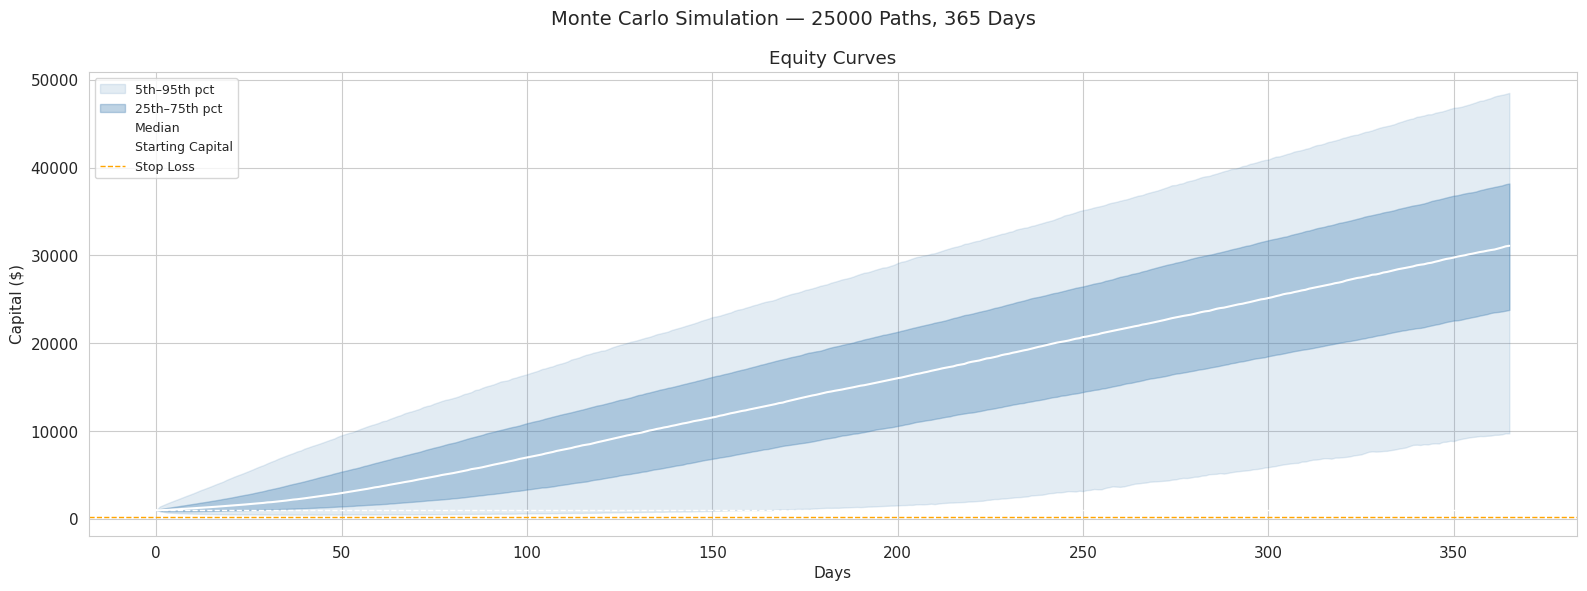
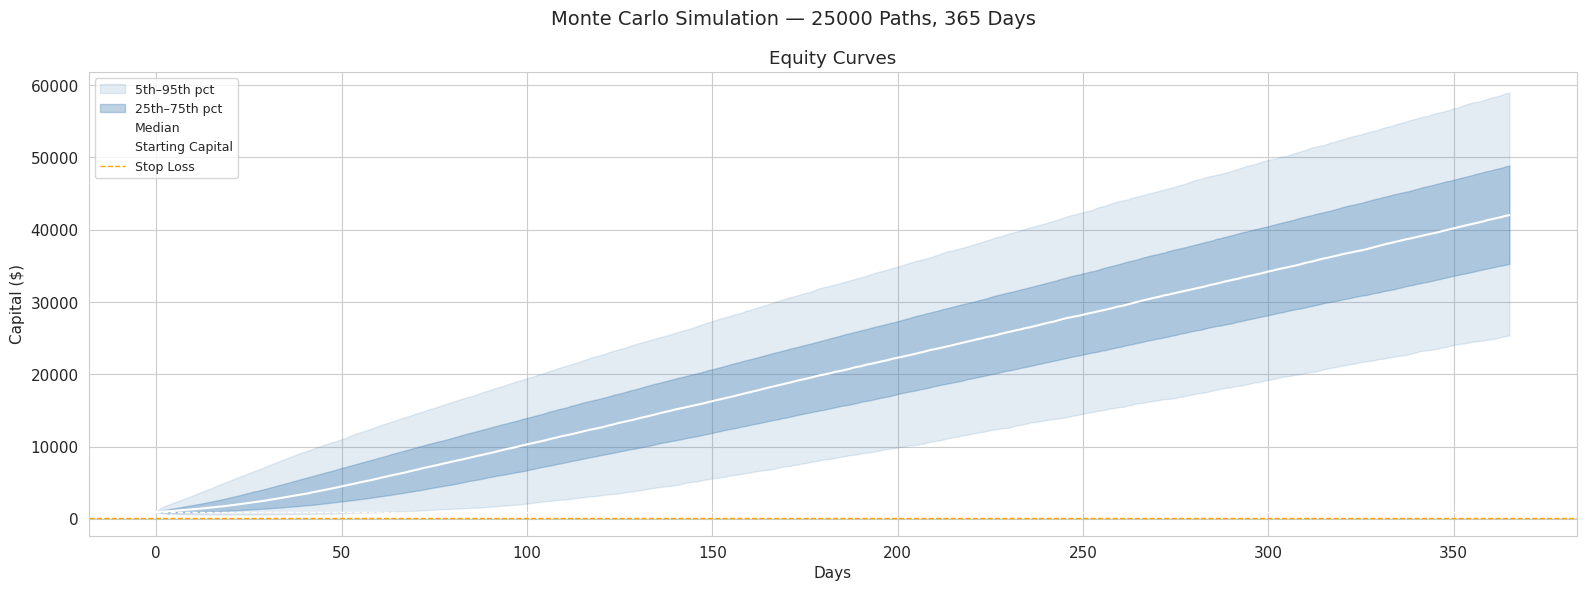
Updated backtest results to represent new hyperparameters and features (Implemented on Mar 28)

diff --git a/README.md b/README.md
@@ -4,7 +4,7 @@
 
 Kalshi temperature markets consistently and systematically misprice the forecast uncertainty of maximum temperature outcomes. Analysis of 1,911 city-date observations reveals that market-implied uncertainty exceeds realized uncertainty by a factor of 1.27x.
 
-This strategy trades binary outcome contracts by generating calibrated probability estimates for each temperature bucket and comparing them against live market prices to identify mispriced positions across 10 U.S. cities. The probability model: A boosted decision tree, trained on 23 features derived from multiple independent weather data sources and Kalshi market microstructure, predicts the forecast error distribution for each city-date. 
+This strategy trades binary outcome contracts by generating calibrated probability estimates for each temperature bucket and comparing them against live market prices to identify mispriced positions across 10 U.S. cities. The probability model: A boosted decision tree, trained on 30 features derived from multiple independent weather data sources and Kalshi market microstructure, predicts the forecast error distribution for each city-date. 
 
 
 ## Live Trading Performance
@@ -26,14 +26,14 @@ The strategy has been deployed in its current state since 2026-02-22 (earlier ve
 
 | Metric | Value |
 |--------|-------|
-| Trades | 1179 |
-| Total Return | 34% |
-| Daily Sharpe (ann.) | 3.1 |
-| Max Drawdown | 6.8% |
-| Win Rate | 30.6% |
-| W/L Ratio | 3.3 |
-| Profit Factor | 1.46 |
-| Calmar Ratio | 12.09 |
+| Trades | 1012 |
+| Total Return | 49.8% |
+| Daily Sharpe (ann.) | 4.9 |
+| Max Drawdown | 5.6% |
+| Win Rate | 34.9% |
+| W/L Ratio | 3.2 |
+| Profit Factor | 1.72 |
+| Calmar Ratio | 15.1 |
 
 ### Equity Curve
 
@@ -47,20 +47,20 @@ The model's predicted probabilities align closely with empirical outcomes across
 
 ### Benchmark Comparison
 
-Every naive and baseline strategy yields negative returns over the same period. The model outperforms the best profitable baseline by **2.0x P&L** and **1.7x Sharpe**. The best profitable baseline uses the same underlying model to adjust forecasts, but trades every available forecast without selectivity, demonstrating trade selection and mispricing identification as critical as the model itself.
+Every naive and baseline strategy yields negative returns over the same period. The model outperforms the best profitable baseline by **1.93x P&L** and **1.96x Sharpe**. The best profitable baseline uses the same underlying model to adjust forecasts, but trades every available forecast without selectivity, demonstrating trade selection and mispricing identification as critical as the model itself.
 
 | Strategy | Trades | Win% | Total P&L | Sharpe | Max DD |
 |----------|--------|------|-----------|--------|--------|
-| **This Strategy** | 1,179 | 30.6% | $396.1 | 3.1 | $-28.83 |
-| Best Baseline | 2,963 | 47.9% | $191.2 | 1.8 | $-41.82 |
-| Naive Forecast | 2,901 | 26.1% | $-865.1 | -6.76 | $-890.17 |
-| Random | 4,154 | 49.8% | $-875.22 | -6.2 | $-909.06 |
+| **This Strategy** | 1,012 | 34.9% | $503.7 | 4.9 | $-29.36 |
+| Best Baseline | 2,547 | 48.4% | $261.0 | 2.5 | $-42.77 |
+| Naive Forecast | 2,504 | 25.9% | $-787.95 | -7.0 | $-810.86 |
+| Random | 4,143 | 49.7% | $-905.35 | -6.96 | $-905.42 |
 
 ![Benchmark Comparison](results/plots/benchmark_comparison.png)
 
 ### Parameter Robustness
 
-A sweep of **66 parameter configurations** shows that **all are profitable**, with annualized Sharpe ratios ranging from 1.84 to 3.08. The chosen parameters rank #1 by composite score but sit in the center of the profitable region rather than on a boundary.
+A sweep of **66 parameter configurations** shows that **all are profitable**, with annualized Sharpe ratios ranging from 2.86 to 4.18. The chosen parameters rank #1 by composite score but sit in the center of the profitable region rather than on a boundary.
 
 ![Parameter Sensitivity](results/plots/parameter_sensitivity.png)
 
@@ -70,10 +70,10 @@ A sweep of **66 parameter configurations** shows that **all are profitable**, wi
 
 | Metric | Value |
 |--------|-------|
-| Median Sharpe (ann.) | 2.7 |
-| Profitable Paths | 96.3% |
-| Mean Max Drawdown | 16.1% |
-| Stop Loss Hit | 3.7% |
+| Median Sharpe (ann.) | 3.16 |
+| Profitable Paths | 99.1% |
+| Mean Max Drawdown | 7.5% |
+| Stop Loss Hit | 0.9% |
 
 ![Monte Carlo Simulation](results/plots/monte_carlo_equity.png)
 
